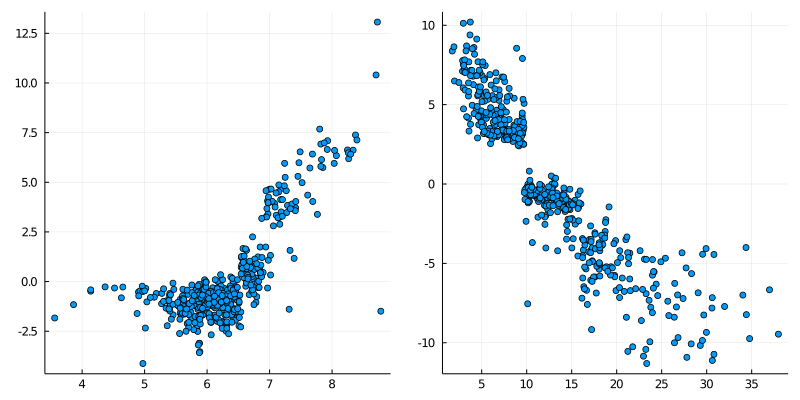
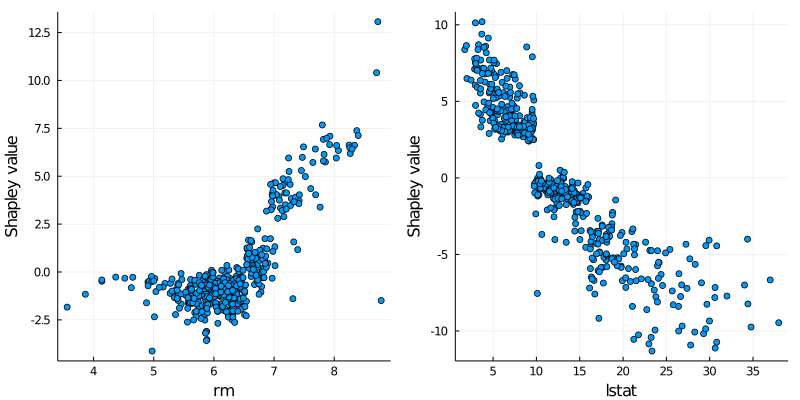
first commit

diff --git a/README.md b/README.md
@@ -18,7 +18,10 @@ bst = xgboost(X, 200, label = y, eta = 1, max_depth = 6)
 # this example)
 shap = SampleSHAP.explain(bst, X, 1000)
 p1 = scatter(X[:, 8], shap[:, 8])
+xlabel!("rm")
 p2 = scatter(X[:, 15], shap[:, 15])
+xlabel!("lstat")
 plot(p1, p2, layout = (1, 2), legend = false, size = (800, 400))
+ylabel!("Shapley value")
 ```
 ![](plot.png)
